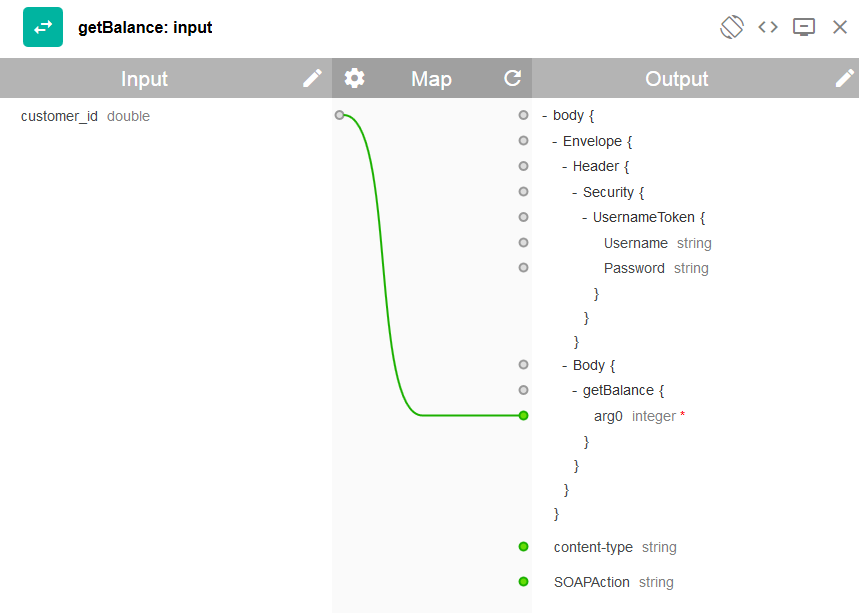
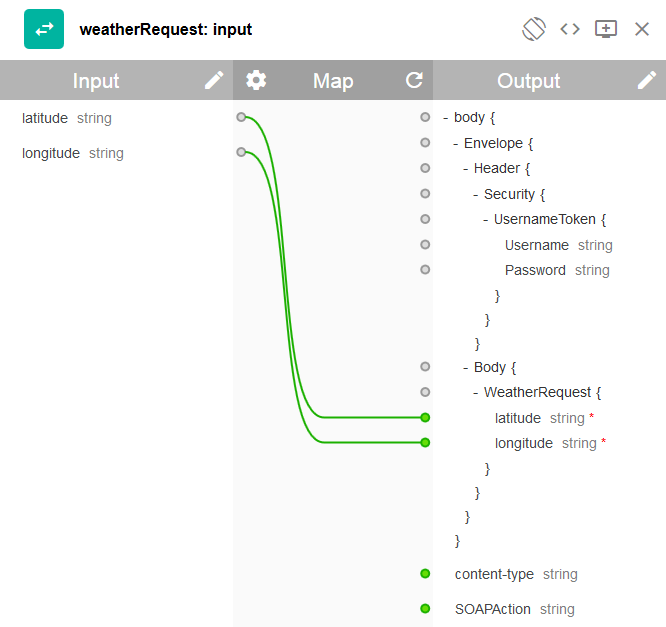
Updated tutorial to use Weather Data SOAP service instead of BankA

diff --git a/bluemix/exposing-a-soap-service-as-rest/README.md b/bluemix/exposing-a-soap-service-as-rest/README.md
@@ -4,7 +4,7 @@
 
 ---
 ### Objective
-In API Manager, you will create a REST API that accesses a SOAP API to make data from the existing SOAP service available. This tutorial uses the BankA account SOAP service as defined by http://banka.mybluemix.net/services/AccountService?wsdl.
+In API Manager, you will create a REST API that accesses a SOAP API to make data from the existing SOAP service available. This tutorial uses the weather data SOAP service as defined by https://api.us.apiconnect.ibmcloud.com/dshute-apic-apic-maker/sb/wdata/current.
 
 ---
 ### Setting up a REST API definition
@@ -14,8 +14,8 @@ In API Manager, you will create a REST API that accesses a SOAP API to make data
 4. Click **Drafts** in the UI navigation pane and then click the **APIs** tab. The **APIs** tab opens.
 5. Click **Add** > **New API**.
 6. Specify basic information about the API.
-	- In the **Title** field, enter ```Accounts```.
-	- Leave the **Name** field as ```accounts``` when it is filled while you enter your title.	
+	- In the **Title** field, enter ```Weather Data```.
+	- Leave the **Name** field as ```weather-data``` when it is filled while you enter your title.	
 	- Leave the **Base** Path field as ```/accounts```.
 	- Leave the **Version** field as ```1.0.0```.
 7. Expand **Additional properties** to specify additional properties for the API.
@@ -24,51 +24,54 @@ In API Manager, you will create a REST API that accesses a SOAP API to make data
 	![](images/new-api-1.png)
 8. Add your API to a new Product and then create the API definition.
 	- Click **Add a product**.
-	- In the **Title** field, enter ```BankA Services```.
+	- In the **Title** field, enter ```Weather Data product```.
 	- Leave the **Name** and **Version** fields unchanged.
 	- Ensure that the **Publish this product to a catalog** check box is selected and then select **Sandbox** as the target Catalog.
 	![](images/new-api-2.png)
 	- Click **Create API**. The **Design** tab for the draft of your API definition opens.
 9. In the **Definitions** section, click the **Add Definition** icon ![](images/add-icon.png) and then expand the new definition by clicking it.
-10. Name the definition ```Account Output```.
-11. The definition contains a single property. Rename the property to ```Balance``` and, in the **Type** column, select double. Mark the property as required in the * column by selecting the check box. Marking a property as required is reflected to customers in the OpenAPI (Swagger 2.0) definition of the API and can be enforced by a validate policy.
+10. Name the definition ```Weather Data Output```.
+11. The definition will have fourteen properties.  Click **Add Property** thirteen times to add the additional properties.  Rename the ```Property Name``` using the following as a guide and use the default for the ```Description```, ```Type``` and ```Example`:
 	![](images/definition-new-1.png)
+	![](images/definition-new-2.png)
 12. In the **Paths** section, click the **Add Path** icon ![](images/add-icon.png).
-13. In the **Path** field of your newly created Path, replace the contents with ```/balance```.
-14. Expand the **GET /balance** operation by clicking it.
+13. In the **Path** field of your newly created Path, replace the contents with ```/getweatherdata```.
+14. Expand the **GET /getweatherdata** operation by clicking it.
 	![](images/path-new-1.png)
-15. For your **GET /balance** operation, click **Add Parameter** and then click **Add new parameter**.
-16. Name your new parameter ```customer_id``` and mark it as required by selecting the check box. Marking a parameter as required is indicated to users in the OpenAPI (Swagger 2.0) definition of the API, is enforced by validate policies, and will result in the test tool always generating the parameter as part of a sample API call.
-17. In the **Schema** column of the **200 OK** response in the **Responses** section, select your **Account Output** definition.
+15. For your **GET /getweatherdata** operation, click **Add Parameter** and then click **Add new parameter**.
+16. Name your new parameter ```latitude``` and mark it as required by selecting the check box. Marking a parameter as required is indicated to users in the OpenAPI (Swagger 2.0) definition of the API, is enforced by validate policies, and will result in the test tool always generating the parameter as part of a sample API call.
+17. Add a second parameter called ```longitude``` and mark it as required as well.
+18. In the **Schema** column of the **200 OK** response in the **Responses** section, select your **Account Output** definition.
 	![](images/path-new-2.png)
 18. Click the Save icon ![](images/save-icon.png) to save your changes.
 
 ---
 ### Adding and configuring your web service invocation
 To add and configure the invoke and map policies that integrate your web service into your API definition, complete the following steps:
-1. Download the ```files/AccountServices.wsdl```to your local computer
+1. Download the ```files/weatherdata.wsdl```to your local computer
 2. In the **Services** section, click the **Add service** icon ![](images/add-icon.png). The ```"Import web service from WSDL"``` window opens.
 3. Click **Upload file**.
-4. In the **File Upload** window, specify the location to the ```AccountService.wsld``` file that you downloaded in ```step 1``` and click **Open** to continue.
+4. In the **File Upload** window, specify the location to the ```weatherdata.wsld``` file that you downloaded in ```step 1``` and click **Open** to continue.
 5. Click **Next**.
-5. Select the **AccountService** SOAP service and then click **Done**. In the **Services** section, a web service is listed.
-6. Click the **Assemble** tab and then ensure that **DataPower Gateway policies** is selected.
-7. Delete the existing **invoke** policy on the canvas by hovering your cursor over the policy and then clicking the **Delete policy** icon ![](images/delete-icon.png).
-8. From the palette, drag the **getBalance** web service onto the dashed box that is displayed on the canvas. An invoke policy and two map policies are placed in the assembly. The first map policy assigns variables to the input of your web service invocation, while the second policy assigns outputs of your web service invocation to variables. The outputs of the first map and the inputs of the second map are generated from the WSDL provided in step 3.
-9. Click the **getBalance: input** map policy and then click the **Edit inputs** icon ![](images/edit-icon.png) in the Input column of the property sheet.
-10. Click **+ input**.
-11. Configure the input according to the following table:
+6. Select the **weatherService** SOAP service and then click **Done**. In the **Services** section, **WeatherService** web service is listed with a single **weatherRequest** operation.
+	![](images/services-add-1.png)	
+7. Click the **Assemble** tab and then ensure that **DataPower Gateway policies** is selected.
+8. Delete the existing **invoke** policy on the canvas by hovering your cursor over the policy and then clicking the **Delete policy** icon ![](images/delete-icon.png).
+9. From the palette, drag the **weatherRequest** web service onto the dashed box that is displayed on the canvas. An invoke policy and two map policies are placed in the assembly. The first map policy assigns variables to the input of your web service invocation, while the second policy assigns outputs of your web service invocation to variables. The outputs of the first map and the inputs of the second map are generated from the WSDL provided in step 4.
+	![](images/services-add-2.png)	
+10. Click the **weatherRequest: input** map policy and then click the **Edit inputs** icon ![](images/edit-icon.png) in the Input column of the property sheet.
+	![](images/services-add-3.png)	
+11. Click **+ parameters for operation** and select ```get /getweatherdata```.
+12. Click **Done** to add the ```latitude``` and ```longitude``` parameters.
 	![](images/webservice-input-1.png)
-12. Click **Done**.
-13. Click the circle corresponding to **customer_id double** on the input side and then click the circle corresponding to **arg0 integer** on the output side.
+13. Click the circle corresponding to **latitude string** on the input side and then click the circle corresponding to **latitude string** on the output side.  Repeat the step for the **longitude string** parameter.
 	![](images/webservice-input-2.png)
 14. Close the property sheet.
-15. Click the **getBalance: output** map policy in the palette and then click the **Edit outputs** icon ![](images/edit-icon.png) in the Output column of the property sheet.
-16. Click **+ output**.
-17. Configure the input according to the following table:
+15. Click the **weatherRequest: output** map policy in the palette and then click the **Edit outputs** icon ![](images/edit-icon.png) in the Output column of the property sheet.
+16. Click **+ outputs for operation** and select ```get /getweatherdata```.
+18. Click **Done** to add the ```Weather Data Output``` output definition.
 	![](images/webservice-output-1.png)
-18. Click **Done**.
-19. Click the circle corresponding to **return integer** on the input side and then click the circle corresponding to **Balance number** on the output side.
+19. Click the circle corresponding to **latitude string** on the input side and then click the circle corresponding to **latitude string** on the output side.  Map the remaining parameters using the following as a guide.
 	![](images/webservice-output-2.png)
 20. Click the **Save** icon ![](images/save-icon.png). to save your changes.
 
@@ -80,12 +83,14 @@ To test your API definition by using the API Manager test tool, complete the fol
 1. Click the **Test** icon ![](images/test-icon.png). The test tool opens.
 2. If you have used the test tool before, click **Change setup**.
 3. In the **Catalog** field, select your **Sandbox** Catalog.
-4. In the **Product** field, select your **BankA Services** Product and then click **Republish product** to publish your Product so that it can be tested.
+4. In the **Product** field, select your **Weather Data** Product and then click **Republish product** to publish your Product so that it can be tested.
 5. Click **Next**.
-6. In the **Operation** field, select **get /balance**.
-7. In the **customer_id** field, enter ```12345```.
-8. Click Invoke. The response is displayed.
-
+6. In the **Operation** field, select **get /getweatherdata**.
+7. In the **latitude** field, enter ```44.69```.
+8. In the **longitude** field, enter ```75.69```.
+	![](images/test-api-1.png)
+9. Click Invoke. The response is displayed.
+	![](images/test-api-2.png)
 ---
 ### What you did in this tutorial
 In this tutorial, you completed the following activities:
